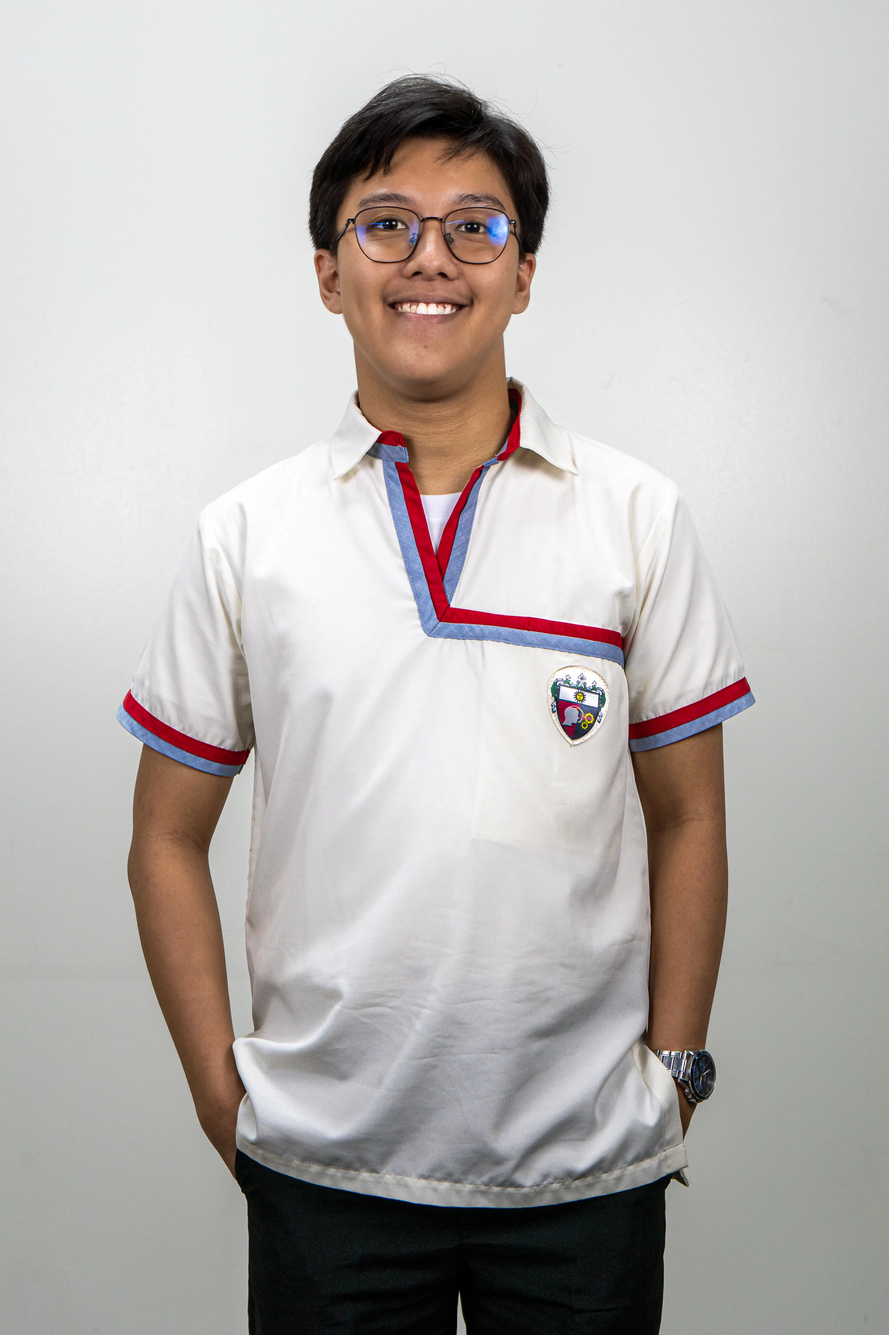
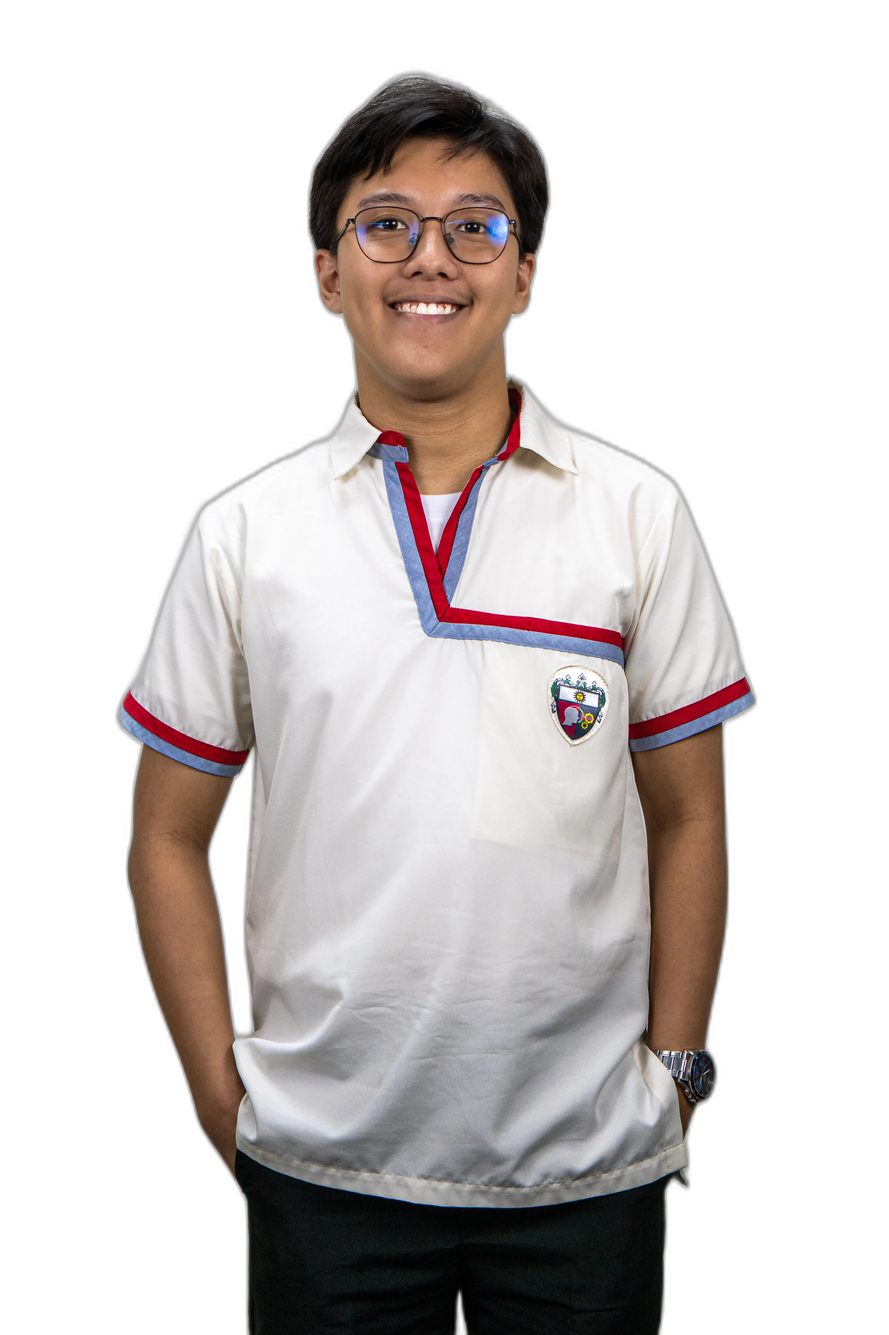
feat: added transparent images

diff --git a/src/components/commitees/heads.tsx b/src/components/commitees/heads.tsx
@@ -13,6 +13,7 @@ export const Heads: React.FC<{ members: MemberType[] }> = ({ members }) => {
     else setExpandedIndex(index);
   };
 
+  const colors = [styles.pink, styles.green, styles.orange, styles.purple];
   return (
     <>
       <LineHeader text="Committee Heads" />
@@ -23,7 +24,7 @@ export const Heads: React.FC<{ members: MemberType[] }> = ({ members }) => {
               key={index}
               className={`${styles.member} ${
                 expandedIndex === index ? styles.expanded : ""
-              }`}
+              } ${colors[index % colors.length]}`}
               onClick={() => handleMemberClick(index)}
             >
               {expandedIndex === index && (

diff --git a/src/utils/data.ts b/src/utils/data.ts
@@ -4,7 +4,7 @@ export const executiveBoardData: MemberType[] = [
   {
     name: "Josh Kenn Viray",
     position: "Chief Executive Officer",
-    image: "/eb/CEO-Josh-Kenn-Viray.webp",
+    image: "/eb/ChiefExecutiveOfficer-JoshKennViray.webp",
   },
   {
     name: "Alexa Palanog",
@@ -29,7 +29,7 @@ export const executiveBoardData: MemberType[] = [
   {
     name: "Lance Owen Gulinao",
     position: "Chief Technology Officer",
-    image: "/eb/CTO-Lance-Owen-Gulinao.webp",
+    image: "/eb/ChiefTechnologyOfficer-LanceOwenGulinao.webp",
   },
   {
     name: "Jan Vincent Elleazar",

diff --git a/src/components/commitees/heads.module.scss b/src/components/commitees/heads.module.scss
@@ -8,6 +8,22 @@
   }
 }
 
+.pink {
+  background-color: rgb(250, 211, 217);
+}
+
+.green {
+  background-color: rgb(208, 250, 180);
+}
+
+.orange {
+  background-color: rgb(212, 158, 92);
+}
+
+.purple {
+  background-color: rgb(221, 173, 255);
+}
+
 .member {
   height: 350px;
   width: 150px;
@@ -28,7 +44,7 @@
   }
 
   &:hover {
-    border: 2px solid var(--pink-400);
+    border: 2px solid var(--purple-400);
     box-shadow: 0 8px 25px rgba(221, 71, 255, 0.2);
   }
 

diff --git a/src/components/eb/executive_box.module.scss b/src/components/eb/executive_box.module.scss
@@ -14,6 +14,7 @@
   display: flex;
   align-items: center;
   margin-bottom: 0.5rem;
+  background-color: rgb(148, 232, 255);
 }
 
 .image {
